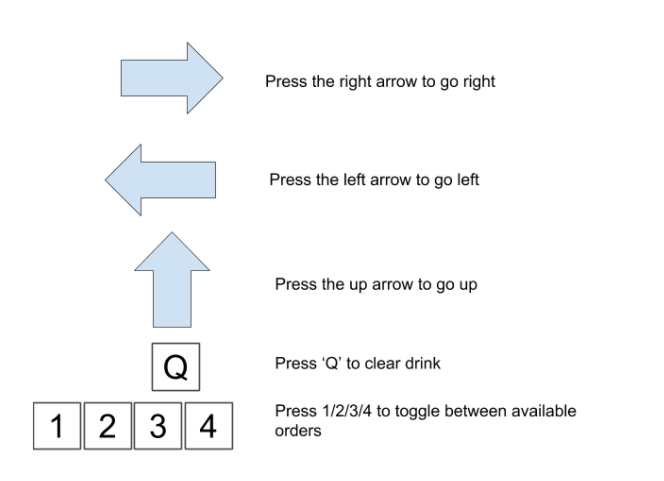
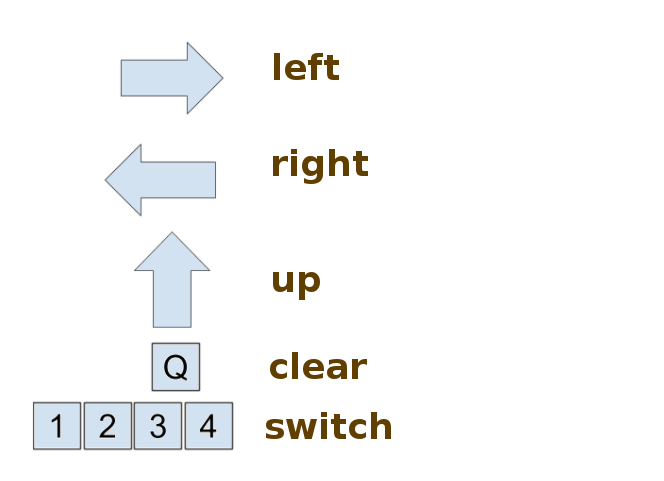
made slightly prettier

diff --git a/src/InstructionScreen.java b/src/InstructionScreen.java
@@ -26,7 +26,7 @@ public class InstructionScreen extends JPanel implements ActionListener {
 	 * @param w
 	 */
 	public InstructionScreen(Main w) { // , Image bgImg
-		this.w = w;
+		this.w = w;/*
 		JPanel p = new JPanel();
 		JPanel p2 = new JPanel();
 
@@ -37,8 +37,8 @@ public class InstructionScreen extends JPanel implements ActionListener {
 		p2.setLayout(new BoxLayout(p2, BoxLayout.X_AXIS));
 		p.add(Box.createVerticalStrut(200)); // Move down by 300 pixels
 		// p2.add(Box.createHorizontalStrut(200));
-
-		background = new ImageIcon("image/Background.png");
+*/
+		background = new ImageIcon("image/Title Screen.png");
 
 		/*
 		 * JButton start = new JButton("Start", new
@@ -65,7 +65,7 @@ public class InstructionScreen extends JPanel implements ActionListener {
 	protected void paintComponent(Graphics g) {
 		super.paintComponent(g);
 		g.drawImage(background.getImage(), 0, 0, this.getWidth(), this.getHeight(), this);
-		g.drawImage(new ImageIcon("image/Controls.png").getImage(), 10, 200, 300, 250, this);
+		g.drawImage(new ImageIcon("image/Controls.png").getImage(), 10, 10, 700, 525, this);
 
 		double ratioX = getWidth() / 800.0;
 		double ratioY = getHeight() / 600.0;
